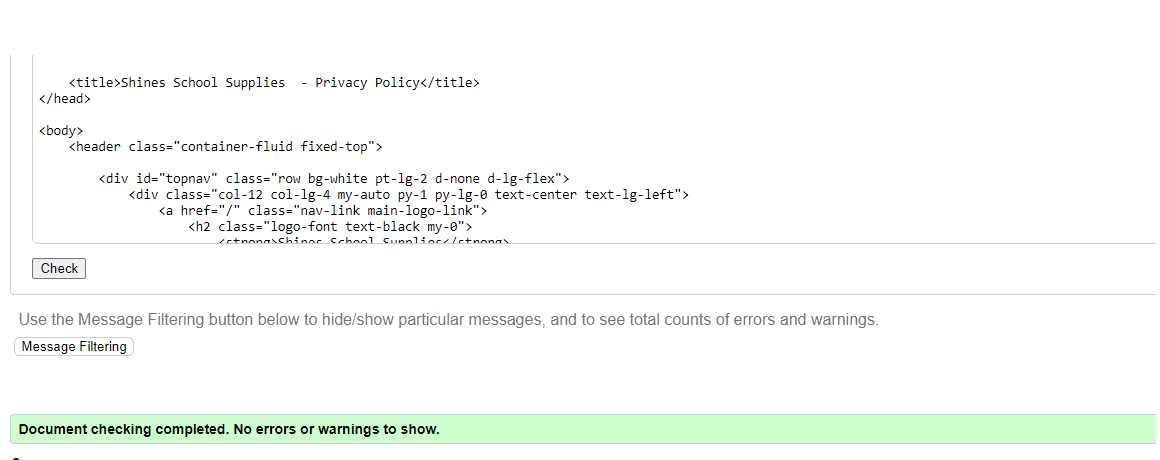
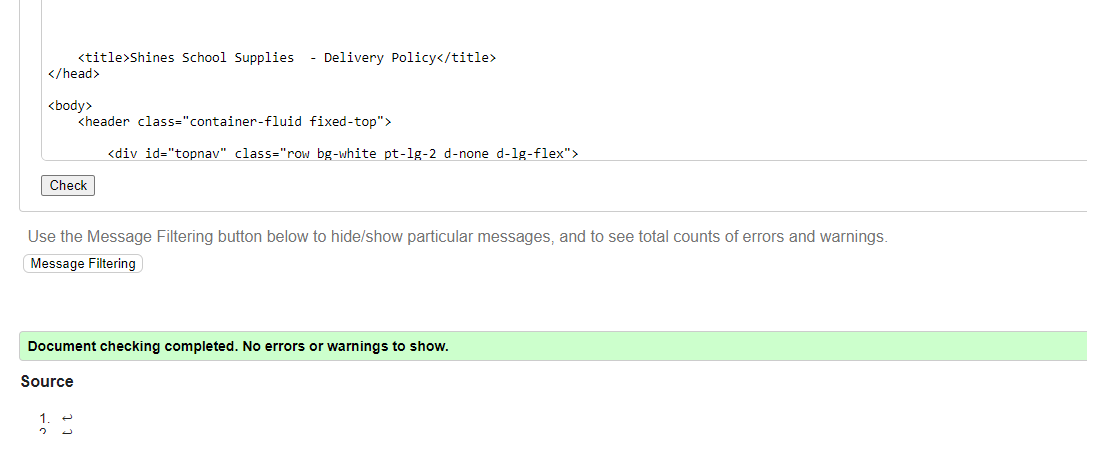
Added w3c css validator in testing.md

diff --git a/home/templates/home/delivery.html b/home/templates/home/delivery.html
@@ -1,7 +1,7 @@
 {% extends "base.html" %}
 {% load static %}
 
-{% block extra_title %} - Privacy Policy{% endblock %}
+{% block extra_title %} - Delivery Policy{% endblock %}
 
 
 {% block page_header %}

diff --git a/TESTING.md b/TESTING.md
@@ -185,6 +185,15 @@ Full CRUD functionality has been implemented for site admins to manage the websi
   ![404 Page](/documentation/testing/html-validator-404.png)
 
 * ### W3C CSS Validator
+
+  W3C was used to validate the CSS. All pages now pass with no errors.
+
+ * static/base.css
+ * checkout/static/checkout/css/checkout.css
+ * profiles/static/profiles/css/profile.css
+
+ ![css validator](/documentation/testing/css-validator.png)
+
   
 * ### JSHint JavaScript validator
   
